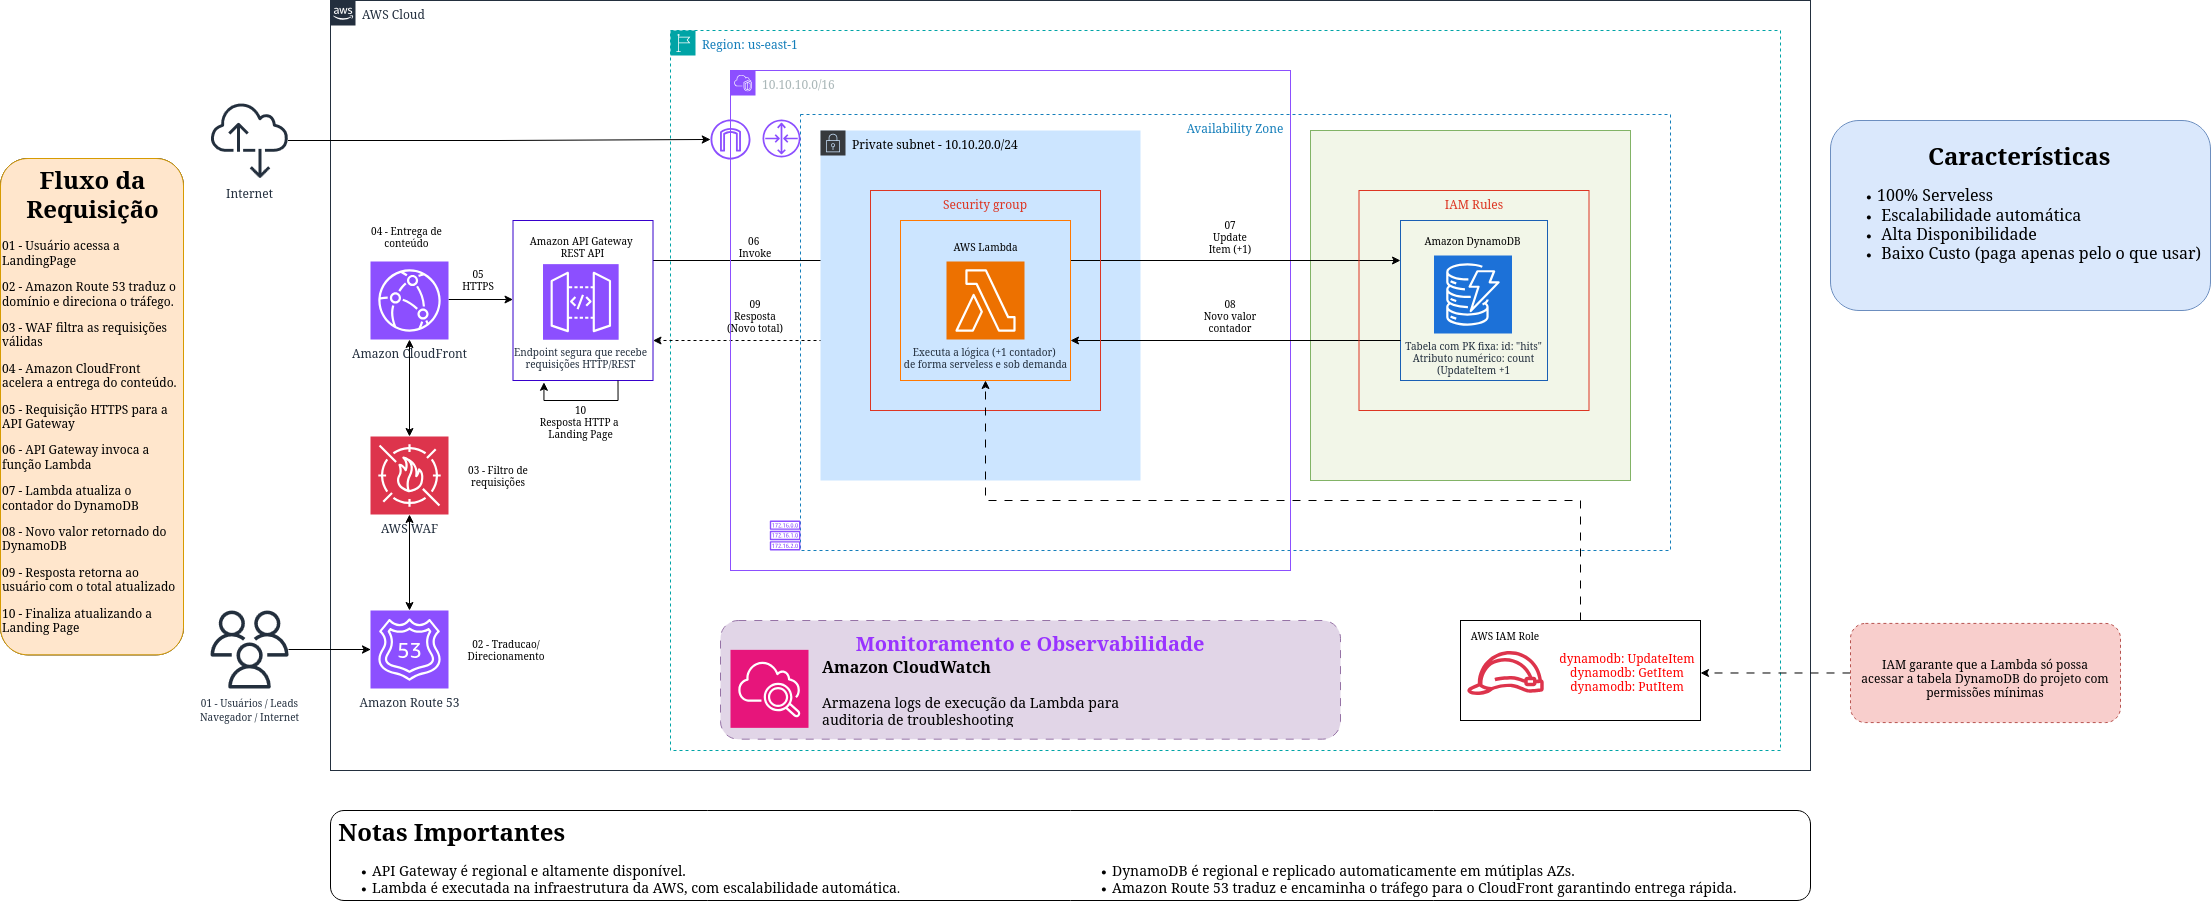
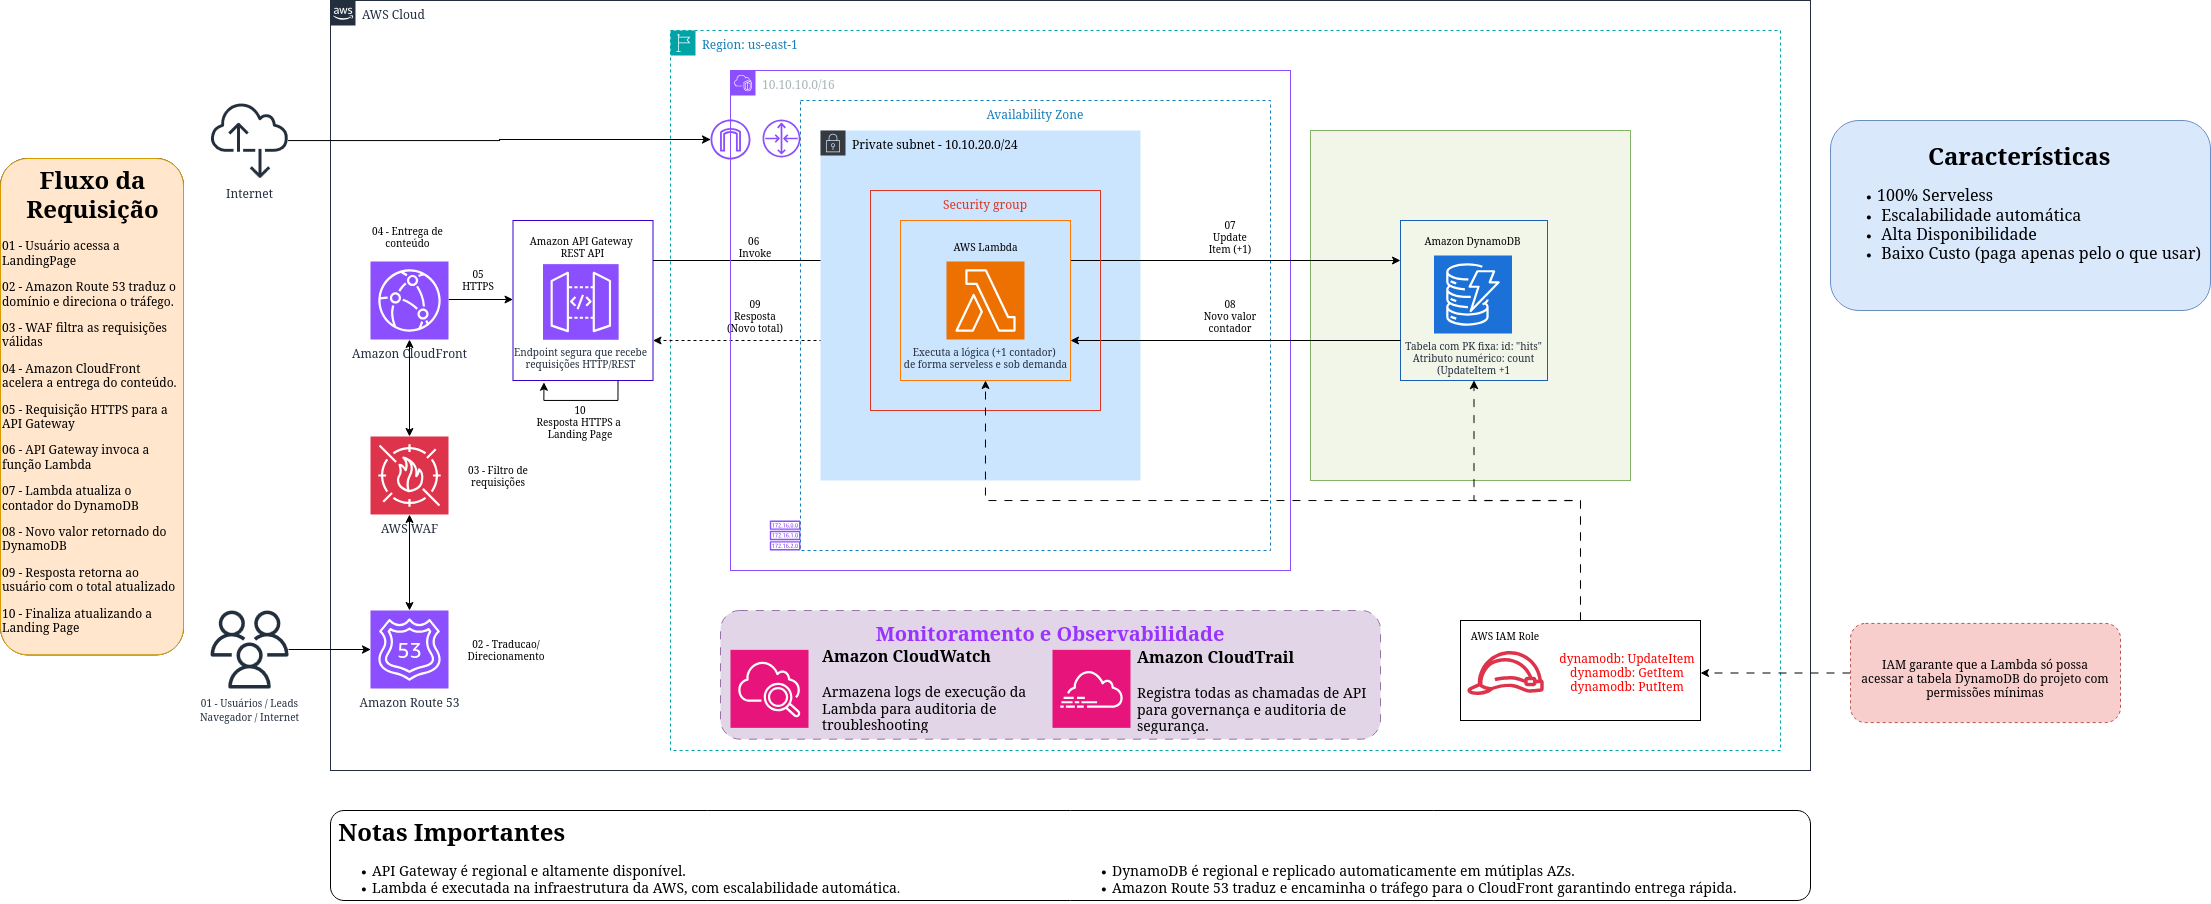
feat(iac): integrate VPC network isolation and CloudTrail auditing

diff --git a/cdk/stack.py b/cdk/stack.py
@@ -3,6 +3,9 @@ from aws_cdk import (
     Duration,
     aws_dynamodb as dynamodb,
     aws_lambda as _lambda,
+    aws_ec2 as ec2,          # Novo
+    aws_cloudtrail as cloudtrail, # Novo
+    aws_s3 as s3,            # Necessário para logs do CloudTrail
     aws_apigateway as apigw,
     aws_cloudfront as cloudfront,
     aws_cloudfront_origins as origins,
@@ -16,14 +19,18 @@ class ContadorAcessosStack(Stack):
     def __init__(self, scope: Construct, construct_id: str, **kwargs) -> None:
         super().__init__(scope, construct_id, **kwargs)
 
-        # 1. DynamoDB
+        # 1. Configurar VPC existente (ou criar uma)
+        # Se a VPC já existe, usamos o ID ou lookup
+        vpc = ec2.Vpc.from_lookup(self, "VpcProjeto", vpc_id="vpc-xxxxxx")
+
+        # 2. DynamoDB
         tabela = dynamodb.Table(
             self, "TabelaContador",
             partition_key=dynamodb.Attribute(name="id", type=dynamodb.AttributeType.STRING),
             billing_mode=dynamodb.BillingMode.PAY_PER_REQUEST
         )
 
-        # 2. Lambda com Monitoramento CloudWatch
+        # 3. Lambda com Monitoramento CloudWatch
         funcao_lambda = _lambda.Function(
             self, "LambdaContador",
             runtime=_lambda.Runtime.PYTHON_3_9,
@@ -31,14 +38,24 @@ class ContadorAcessosStack(Stack):
             code=_lambda.Code.from_asset("../src/backend"),
             environment={"TABLE_NAME": tabela.table_name},
             log_retention=logs.RetentionDays.ONE_WEEK # Configuração do CloudWatch Logs
+            vpc=vpc, 
+            vpc_subnets=ec2.SubnetSelection(subnet_type=ec2.SubnetType.PRIVATE_WITH_EGRESS)
         )
 
         tabela.grant_read_write_data(funcao_lambda)
 
-        # 3. API Gateway
+        # 4. CloudTrail para Auditoria
+        bucket_logs = s3.Bucket(self, "CloudTrailLogsBucket")
+        trail = cloudtrail.Trail(
+            self, "CloudTrailAuditoria",
+            storage_bucket=bucket_logs,
+            is_multi_region_trail=True
+        )
+
+        # 5. API Gateway
         api = apigw.LambdaRestApi(self, "ApiContador", handler=funcao_lambda)
 
-        # 4. WAF (Web Application Firewall)
+        # 6. WAF (Web Application Firewall)
         web_acl = wafv2.CfnWebACL(
             self, "WafProtecao",
             default_action={"allow": {}},
@@ -63,7 +80,8 @@ class ContadorAcessosStack(Stack):
                 )
             ]
         )
-        # 5. CloudFront (CDN)
+
+        # 7. CloudFront (CDN)
         distribuicao = cloudfront.Distribution(
             self, "CloudFrontDist",
             default_behavior=cloudfront.BehaviorOptions(
@@ -72,7 +90,8 @@ class ContadorAcessosStack(Stack):
             ),
             web_acl_id=web_acl.attr_arn
         )
-        # 6. Route 53 (DNS)(Exemplo de integração)
+        
+        # 8. Route 53 (DNS)(Exemplo de integração)
         # Para isso funcionar, você precisaria de um domínio (ex: 'meusite.com')
         # já registrado no Route 53 como uma Hosted Zone.
         
